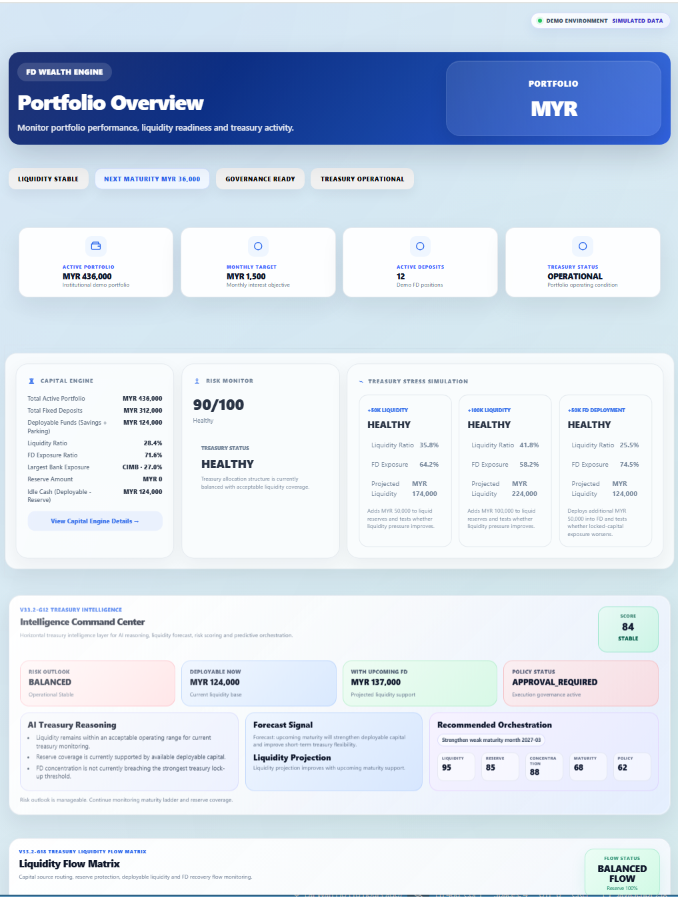
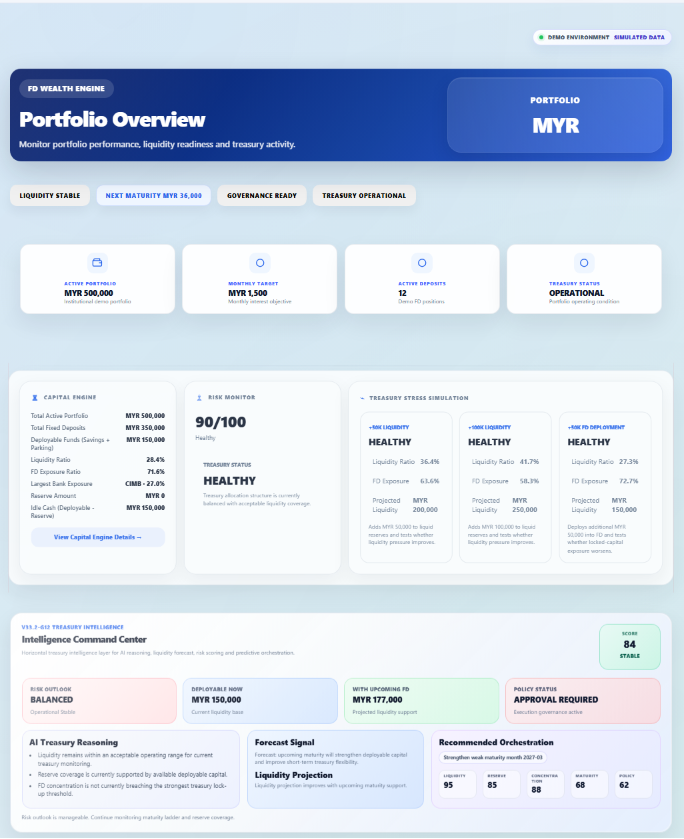
Update demo dataset for V1 Stable Edition

diff --git a/src/data/demoTreasuryDataset.js b/src/data/demoTreasuryDataset.js
@@ -6,20 +6,20 @@
 
 export const demoTreasuryDataset = {
   portfolio: {
-    totalPortfolio: 436000,
+    totalPortfolio: 500000,
     monthlyInterestTarget: 1500,
     activeDeposits: 12,
     maturityCoverage: "12M",
     portfolioStatus: "OPERATIONAL",
   },
 
-  runtime: {
-  totalActivePortfolio: 436000,
-  totalFixedDeposits: 312000,
-  totalSavings: 84000,
-  totalParkingCash: 40000,
-  totalDeployableFunds: 124000,
-  totalDeployableWithUpcoming: 160000,
+runtime: {
+  totalActivePortfolio: 500000,
+  totalFixedDeposits: 350000,
+  totalSavings: 100000,
+  totalParkingCash: 50000,
+  totalDeployableFunds: 150000,
+  totalDeployableWithUpcoming: 186000,
   upcomingMaturityAmount: 36000,
   reserveAmount: 50000,
 